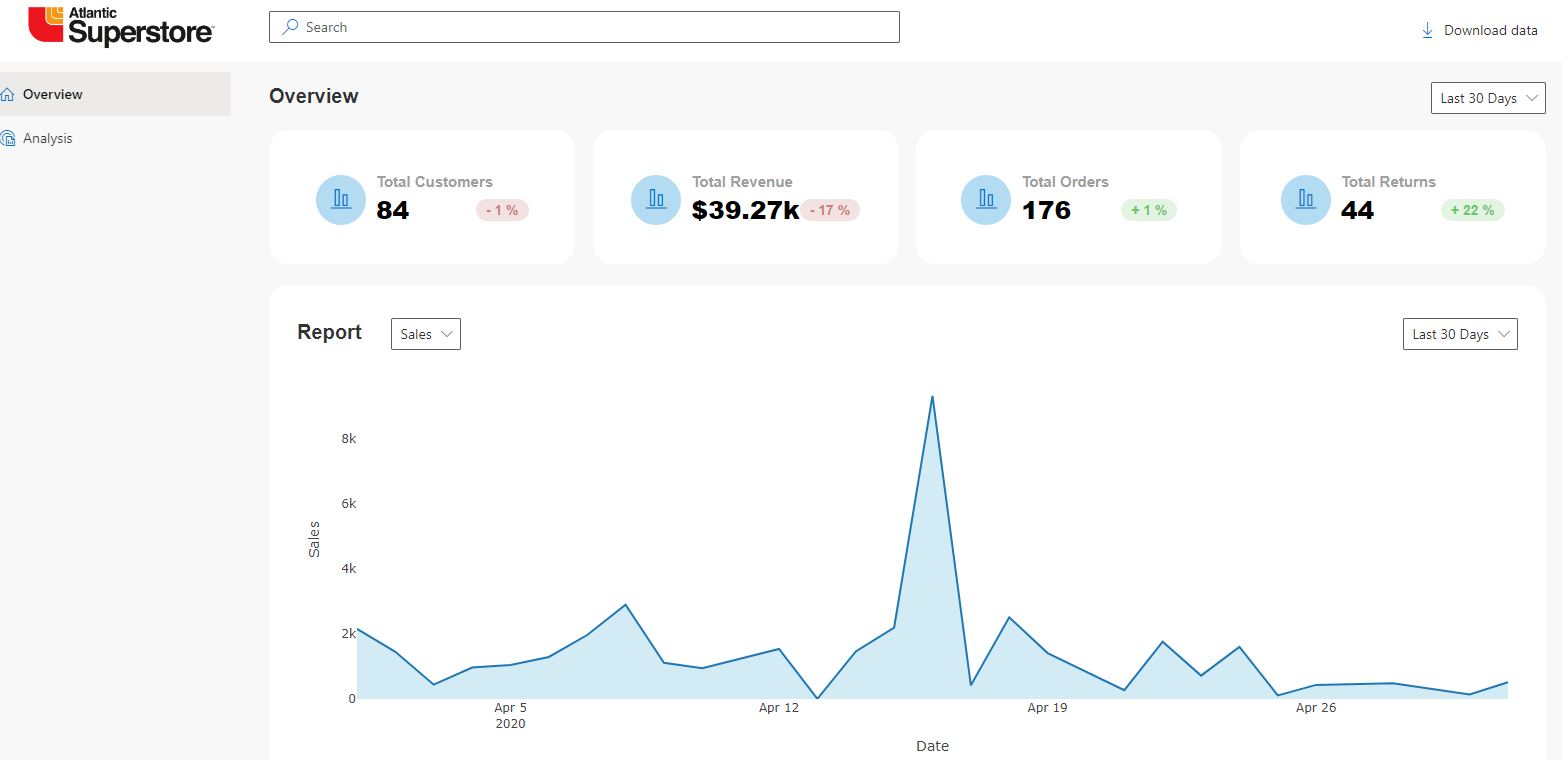
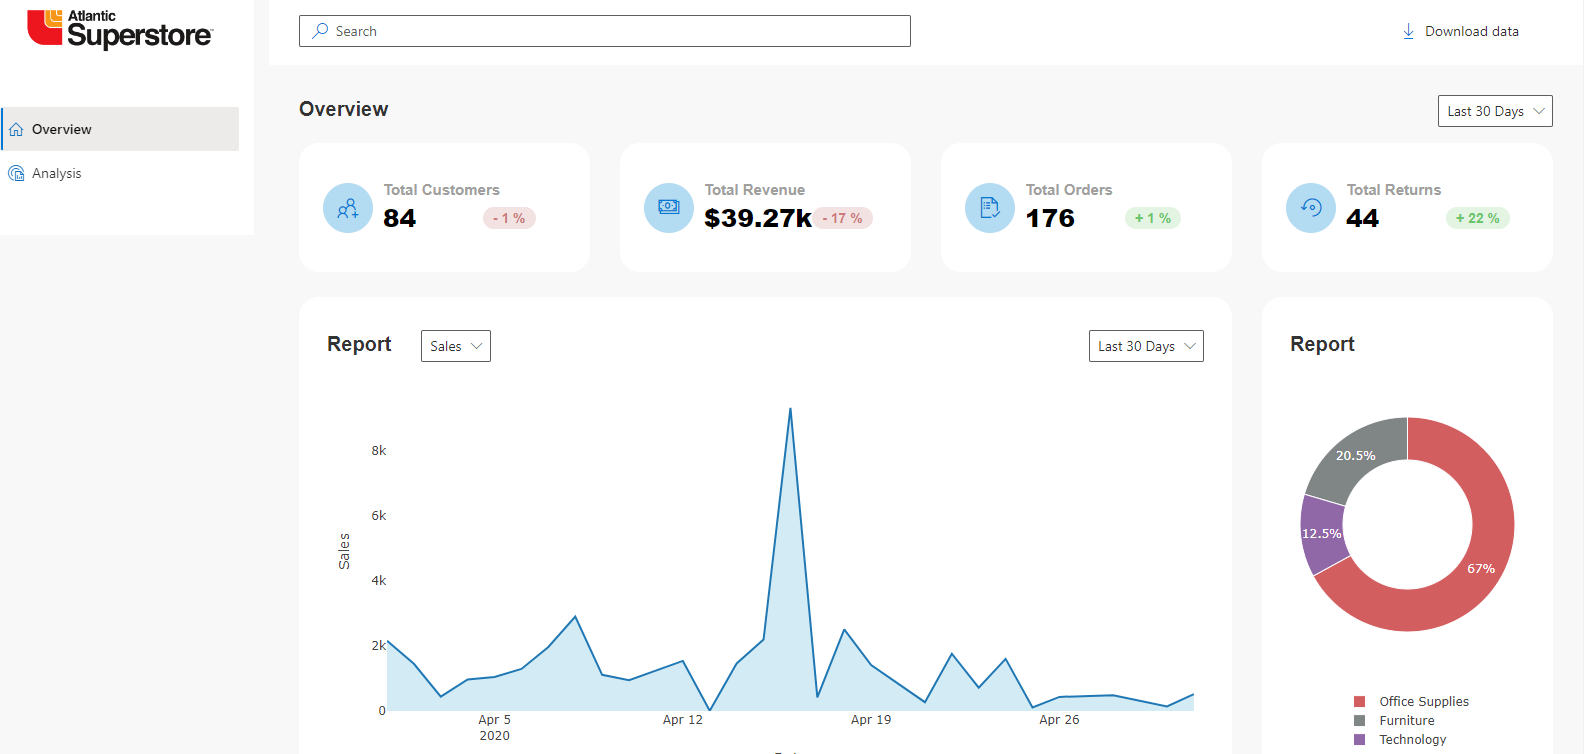
changed to bootstrap layout/added pie chart

diff --git a/www/styles.css b/www/styles.css
@@ -2,6 +2,10 @@
   --borderRadius : 2rem;
 }
 
+.container-fluid {
+ padding: 0;
+}
+
 .header {
   grid-area: header;
   background-color: #fff;
@@ -74,6 +78,12 @@ body {
  font-weight: 700;
 }
 
+.kpi-style {
+ background-color: white;
+ padding: 36px 24px;
+ border-radius: 20px;
+}
+
 .kpi-title {
  font-size: 1.5rem;
  font-weight: 600;
@@ -96,20 +106,17 @@ body {
  padding: 3px 10px;
 }
 
+.logo-wrapper {
+ background-color: white;
+ background-clip : padding-box;
+}
+
 .report-wrapper {
  background-color: white;
  border-radius: var(--borderRadius);
  padding: 28px;
 }
+
 .net-change {
  display: contents;
-}
-
-.search-bar-wrapper {
- display: flex;
- padding: 28px;
-}
-
-.search-bar-wrapper .ms-SearchBox{
- width: 631px;
 }
